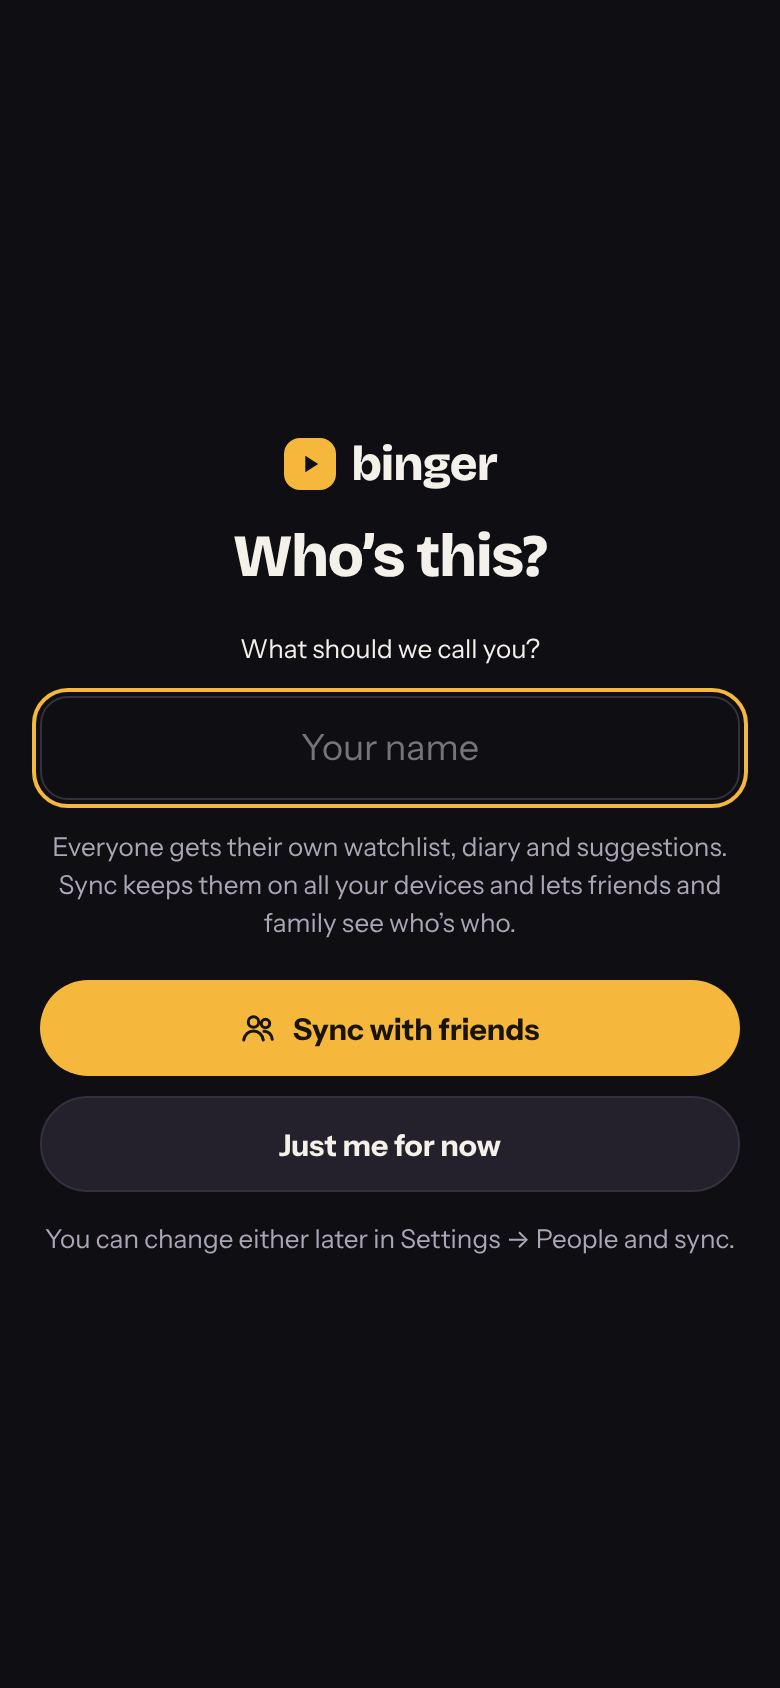
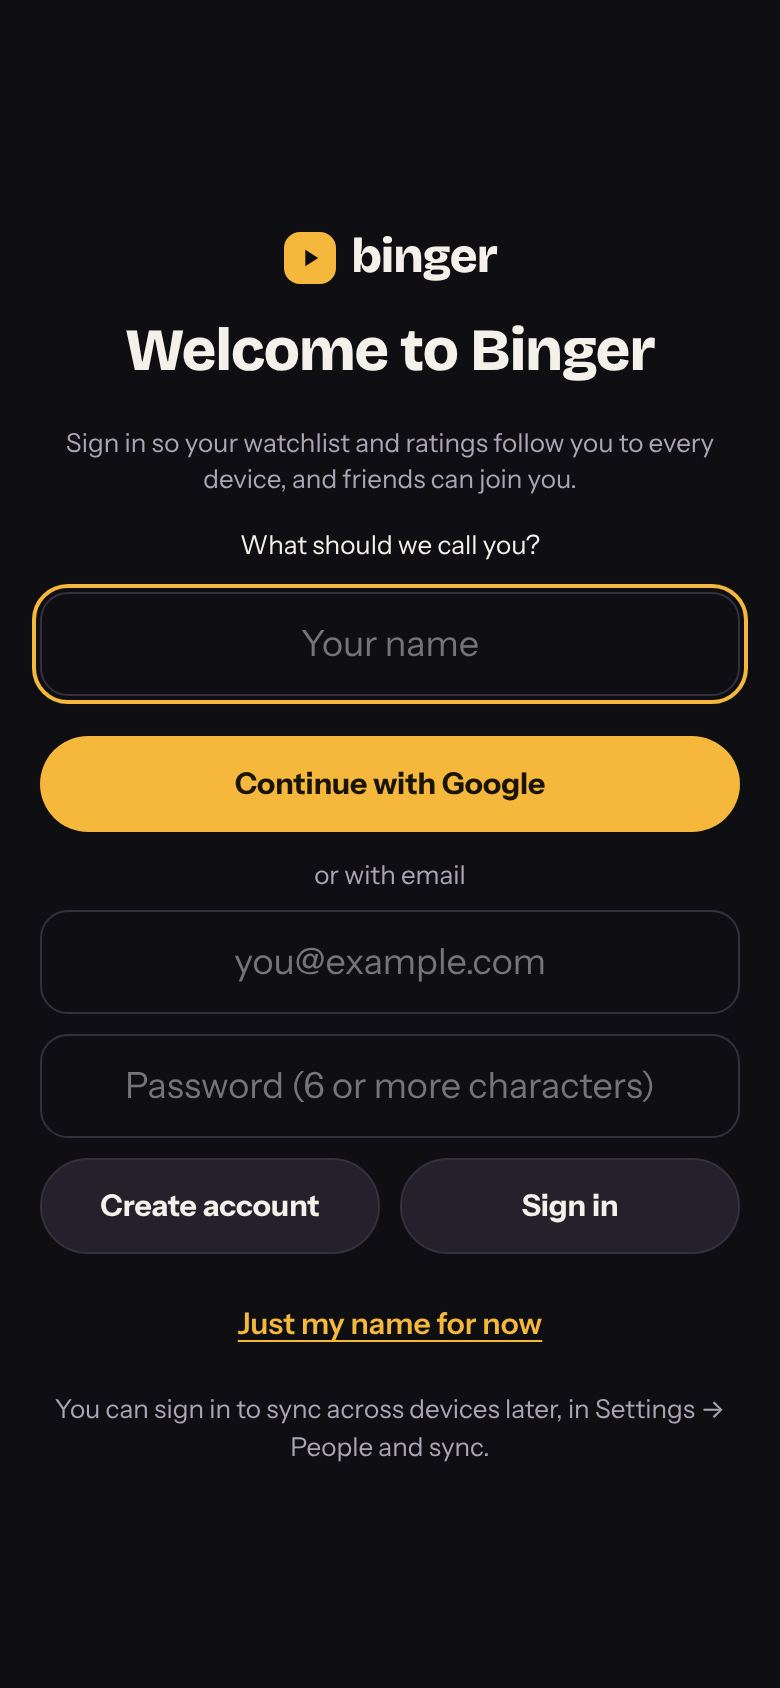
Sign in on the welcome; a legal Watch button
- The first visit opens on sign-in (Google, or email to create an account
  or sign in), so syncing is set up from the start and nobody has to link
  devices later. A new account gets its own household straight away; an
  existing one asks "Which one is you?". The only way past without signing
  in is "Just my name for now" (a name is needed; Escape can't skip it).
  welcomeSignedIn finishes from onUser, so a Google redirect ends the same.
- "Where to watch" opens with one button to a legal stream: the official
  anime link (your service first), or TMDB's page of where a film or show
  is on in your country. Decision 15: legal sources only.
- e2e: the main run takes "Just my name"; the sync run signs Emma up on the
  welcome and signs her laptop in there (36 checks).

Claude-Session: https://claude.ai/code/session_01WaQZs8kxkvLL13CENhv3FL

diff --git a/js/ui/people.js b/js/ui/people.js
@@ -45,35 +45,76 @@ export function openWhoIsWatching(ctx) {
   return sheet;
 }
 
-// First visit: who's this, and do they want to sync with friends? Resolves
-// to { name, choice: 'sync' | 'solo' } (name may be ''), however it closes.
-export function openWelcome({ name = '' } = {}) {
-  return new Promise((resolve) => {
-    let result = null;
-    const sheet = openSheet({ label: 'Welcome to Binger', variant: 'full', className: 'who welcome', onClose: () => resolve(result || { name: input.value.trim(), choice: 'solo' }) });
-    const input = h('input', { id: 'welcome-name', type: 'text', maxlength: '30', autocomplete: 'given-name', value: name, placeholder: 'Your name' });
-    const done = (choice) => {
-      const v = input.value.trim();
-      if (choice === 'sync' && !v) { input.focus(); hint.textContent = 'Add your name first, so your friends can tell whose library is whose.'; return; }
-      result = { name: v, choice };
-      sheet.close();
-    };
-    const hint = h('p', { class: 'small muted', role: 'status' }, 'Everyone gets their own watchlist, diary and suggestions. Sync keeps them on all your devices and lets friends and family see who’s who.');
-    input.addEventListener('keydown', (e) => { if (e.key === 'Enter') done(input.value.trim() ? 'sync' : 'solo'); });
-    append(sheet.body, [
-      h('div', { class: 'who-body welcome-body' },
-        h('div', { class: 'brand' }, h('span', { class: 'brand-mark', 'aria-hidden': 'true' }, icon('play', 14)), h('span', { class: 'brand-word' }, 'binger')),
-        h('h1', { class: 'page-title' }, 'Who’s this?'),
-        h('label', { class: 'small', for: 'welcome-name' }, 'What should we call you?'),
-        input,
-        hint,
+// First visit: sign in straight away, so syncing (and inviting friends) is
+// set up from the start rather than linked later. "Just my name" is the only
+// way past without signing in. ctx.get() returns { hasConfig, busy, error };
+// actions: onGoogle(name), onEmail(name, email, password, create),
+// onNameOnly(name), onClose(). The app closes it once someone is signed in.
+export function openWelcome(ctx) {
+  const sheet = openSheet({ label: 'Welcome to Binger', variant: 'full', className: 'who welcome', dismissible: false, onClose: ctx.onClose });
+  const body = h('div', { class: 'who-body welcome-body' });
+  append(sheet.body, [body]);
+  let need = '';
+
+  const val = (id) => { const el = body.querySelector(`#${id}`); return el ? el.value.trim() : ''; };
+  // A name is needed for a new account and for "Just my name", so friends can
+  // tell whose library is whose. Google and an existing account bring theirs.
+  const requireName = () => {
+    if (val('welcome-name')) return true;
+    need = 'Add your name first, so friends can tell whose library is whose.';
+    render();
+    body.querySelector('#welcome-name').focus();
+    return false;
+  };
+
+  function render() {
+    const st = ctx.get();
+    const typed = new Map([...body.querySelectorAll('input[id]')].map((el) => [el.id, el.value]));
+    const focused = document.activeElement && body.contains(document.activeElement) ? document.activeElement.id : null;
+    clear(body);
+    const name = h('input', { id: 'welcome-name', type: 'text', maxlength: '30', autocomplete: 'given-name', placeholder: 'Your name' });
+    const parts = [
+      h('div', { class: 'brand' }, h('span', { class: 'brand-mark', 'aria-hidden': 'true' }, icon('play', 14)), h('span', { class: 'brand-word' }, 'binger')),
+      h('h1', { class: 'page-title' }, 'Welcome to Binger'),
+      h('p', { class: 'small muted' }, st.hasConfig
+        ? 'Sign in so your watchlist and ratings follow you to every device, and friends can join you.'
+        : 'Everyone gets their own watchlist, diary and suggestions.'),
+      h('label', { class: 'small', for: 'welcome-name' }, 'What should we call you?'),
+      name,
+    ];
+    if (st.hasConfig) {
+      const email = h('input', { id: 'welcome-email', type: 'email', autocomplete: 'username', placeholder: 'you@example.com' });
+      const pw = h('input', { id: 'welcome-password', type: 'password', autocomplete: 'current-password', placeholder: 'Password (6 or more characters)' });
+      parts.push(
         h('div', { class: 'welcome-actions' },
-          h('button', { type: 'button', class: 'btn btn-primary', onClick: () => done('sync') }, icon('people', 18), 'Sync with friends'),
-          h('button', { type: 'button', class: 'btn btn-quiet', onClick: () => done('solo') }, 'Just me for now')),
-        h('p', { class: 'small muted' }, 'You can change either later in Settings → People and sync.')),
-    ]);
-    requestAnimationFrame(() => input.focus());
-  });
+          h('button', { type: 'button', class: 'btn btn-primary', disabled: st.busy, onClick: () => { need = ''; ctx.onGoogle(val('welcome-name')); } }, 'Continue with Google'),
+          h('p', { class: 'small muted welcome-or' }, 'or with email'),
+          h('label', { class: 'sr-only', for: 'welcome-email' }, 'Email'), email,
+          h('label', { class: 'sr-only', for: 'welcome-password' }, 'Password'), pw,
+          h('div', { class: 'row-gap welcome-email-actions' },
+            h('button', { type: 'button', class: 'btn btn-quiet grow', disabled: st.busy, onClick: () => { if (requireName()) { need = ''; ctx.onEmail(val('welcome-name'), val('welcome-email'), body.querySelector('#welcome-password').value, true); } } }, 'Create account'),
+            h('button', { type: 'button', class: 'btn btn-quiet grow', disabled: st.busy, onClick: () => { need = ''; ctx.onEmail(val('welcome-name'), val('welcome-email'), body.querySelector('#welcome-password').value, false); } }, 'Sign in'))),
+        st.busy ? h('p', { class: 'small muted', role: 'status' }, 'Signing in…') : null,
+        st.error ? h('p', { class: 'small error', role: 'alert' }, st.error) : null,
+        need ? h('p', { class: 'small error', role: 'alert' }, need) : null,
+        h('button', { type: 'button', class: 'link-btn welcome-skip', disabled: st.busy, onClick: () => { if (requireName()) ctx.onNameOnly(val('welcome-name')); } }, 'Just my name for now'),
+        h('p', { class: 'small muted' }, 'You can sign in to sync across devices later, in Settings → People and sync.'));
+    } else {
+      parts.push(
+        need ? h('p', { class: 'small error', role: 'alert' }, need) : null,
+        h('div', { class: 'welcome-actions' }, h('button', { type: 'button', class: 'btn btn-primary', onClick: () => { if (requireName()) ctx.onNameOnly(val('welcome-name')); } }, 'Continue')));
+    }
+    append(body, parts);
+    for (const [id, value] of typed) { const el = body.querySelector(`#${id}`); if (el && value) el.value = value; }
+    // Typing survives a re-render (sign-in state changing), and so does focus.
+    const again = focused && body.querySelector(`#${focused}`);
+    if (again) again.focus();
+  }
+
+  render();
+  // After the sheet's own focus (openSheet focuses the panel on the next frame).
+  requestAnimationFrame(() => { const n = body.querySelector('#welcome-name'); if (n) n.focus(); });
+  return { sheet, refresh: () => { if (sheet.el.isConnected) render(); }, close: () => sheet.close() };
 }
 
 // A small sheet asking for a name. Resolves to the name, or null.

diff --git a/js/app.js b/js/app.js
@@ -51,6 +51,8 @@ const store = createStore({ key: currentProfile(device.profiles).key, onSaveErro
 // Sync across devices (Firebase), once set up and signed in.
 const sync = { fb: null, loading: null, user: null, ctl: null, status: '', error: '', busy: false, pendingCode: null };
 let peopleSheet = null;
+// The first-visit welcome (sign in, or just a name) while it's open.
+let welcome = null;
 let cache = createMemoryCache();
 let tmdb = null;
 let anilist = null;
@@ -451,6 +453,7 @@ function firebaseConfig() {
 
 function refreshPeople() {
   if (peopleSheet) peopleSheet.refresh();
+  if (welcome) welcome.refresh();
 }
 function syncStatus(text) { sync.status = text; sync.error = ''; refreshPeople(); }
 function syncError(text) { sync.error = text; refreshPeople(); }
@@ -488,6 +491,8 @@ async function onUser(user) {
   }
   if (device.household) await beginSync();
   refreshPeople();
+  // Signed in from the welcome (straight away, or back from a Google redirect).
+  if (welcome) await welcomeSignedIn();
 }
 
 async function beginSync() {
@@ -940,22 +945,77 @@ function afterWho() {
   if (!store.get().onboarded) startOnboarding();
 }
 
-// "Who's this?" once per device, before anything else: a name (so friends
-// can tell whose library is whose) and the way into syncing with them.
+// The welcome, once per device, before anything else: sign in straight away
+// (so syncing and inviting friends are set up from the start, not linked
+// later), or "Just my name" to go on without.
 function needsWelcome() {
   return !device.welcomed && !device.household && !currentProfile(device.profiles).name;
 }
 
-async function showWelcome() {
+function setMyName(name) {
   const me = currentProfile(device.profiles);
-  const { name, choice } = await openWelcome({ name: me.name });
+  if (name && name !== me.name) setProfiles(renameProfile(device.profiles, me.id, name));
+}
+
+function showWelcome() {
+  if (firebaseConfig()) ensureFirebase();
+  welcome = openWelcome({
+    get: () => ({
+      hasConfig: !!firebaseConfig(),
+      busy: sync.busy || (!!firebaseConfig() && !sync.fb && !!sync.loading),
+      error: sync.error,
+    }),
+    onGoogle: (name) => welcomeSignIn(name, (fb) => fb.signInGoogle()),
+    onEmail: (name, email, password, create) => welcomeSignIn(name, (fb) => {
+      if (!email || !password) throw Object.assign(new Error(), { code: 'auth/invalid-email' });
+      return create ? fb.createAccount(email, password) : fb.signInEmail(email, password);
+    }),
+    onNameOnly: (name) => finishWelcome({ name }),
+    // Closed some other way (the phone's back gesture): carry on without
+    // marking it done, so it asks again next time.
+    onClose: () => { if (welcome) { welcome = null; if (!store.get().onboarded) startOnboarding(); } },
+  });
+}
+
+// The name goes on this device's person first, so a new household (or
+// "Someone new" in a household) already knows it.
+async function welcomeSignIn(name, signIn) {
+  setMyName(name);
+  await syncAction(async () => { const fb = await ensureFirebase(); if (fb) await signIn(fb); });
+  // onUser carries on from here once Firebase says who's signed in.
+}
+
+// Signed in: an account with a household joins it (onUser has already asked
+// "Which one is you?"); a new account gets its own household, so inviting a
+// friend is one link from now on.
+async function welcomeSignedIn() {
+  if (!welcome || welcome.finishing || !sync.user) return;
+  welcome.finishing = true;
+  try {
+    if (!device.household) {
+      if (!currentProfile(device.profiles).name && sync.user.name) setMyName(sync.user.name.split(' ')[0]);
+      device.household = await createHousehold(sync.fb, sync.user.uid, device.profiles);
+      saveDevice(device);
+      await beginSync();
+    }
+  } catch (err) {
+    welcome.finishing = false;
+    syncError(authMessage(err));
+    return;
+  }
+  finishWelcome({ signedIn: true });
+}
+
+function finishWelcome({ name = '', signedIn = false } = {}) {
+  if (name) setMyName(name);
   device.welcomed = true;
   saveDevice(device);
-  if (name) setProfiles(renameProfile(device.profiles, me.id, name));
+  const w = welcome;
+  welcome = null;
+  if (w) w.close();
+  // Sync may have brought this person's library from another device.
   if (!store.get().onboarded) startOnboarding();
-  // People and sync opens on top of the first run: if they join a household
-  // that already has their library, the first run closes by itself.
-  if (choice === 'sync') showPeople();
+  if (signedIn) toast(`Signed in as ${displayName(currentProfile(device.profiles))}. Invite friends from Settings → People and sync.`, { ms: 4000 });
 }
 
 async function init() {

diff --git a/js/ui/detail.js b/js/ui/detail.js
@@ -118,11 +118,28 @@ function body(t, ctx, sheet) {
       t.url ? h('a', { href: t.url, target: '_blank', rel: 'noopener' }, t.source === 'anilist' ? 'AniList page' : 'TMDB page', icon('external', 14)) : null));
 }
 
+// One tap to watch it, legally. Anime: the official stream itself, one of
+// your services first. Films and TV: TMDB's page of where it's on in your
+// country (JustWatch's links to each service), since TMDB gives no direct
+// link per service.
+function watchButton(t, ctx) {
+  const mine = ctx.settings.services || [];
+  if (t.source === 'anilist') {
+    const links = t.watchLinks || [];
+    const best = links.find((l) => mine.includes(l.name)) || links[0];
+    return best ? h('a', { class: 'btn btn-primary watch-btn', href: best.url, target: '_blank', rel: 'noopener' }, icon('play', 16), `Watch on ${best.name}`) : null;
+  }
+  const p = t.providers;
+  const any = p && [p.stream, p.free, p.rent, p.buy].some((list) => list && list.length);
+  return any && p.link ? h('a', { class: 'btn btn-primary watch-btn', href: p.link, target: '_blank', rel: 'noopener' }, icon('play', 16), 'Where to watch it') : null;
+}
+
 function whereToWatch(t, ctx) {
   const mine = ctx.settings.services || [];
   if (t.source === 'anilist') {
     const links = t.watchLinks || [];
     return h('section', { class: 'where' }, h('h2', { class: 'eyebrow' }, 'Where to watch'),
+      watchButton(t, ctx),
       links.length
         ? h('ul', { class: 'providers' }, links.map((l) => h('li', null,
           h('a', { class: `provider provider-link${mine.includes(l.name) ? ' provider-yours' : ''}`, href: l.url, target: '_blank', rel: 'noopener' },
@@ -136,6 +153,7 @@ function whereToWatch(t, ctx) {
   const rows = p ? [['Stream', p.stream], ['Free', p.free], ['Rent', p.rent], ['Buy', p.buy]].filter(([, list]) => list && list.length) : [];
   return h('section', { class: 'where' },
     h('h2', { class: 'eyebrow' }, `Where to watch · ${region}`),
+    watchButton(t, ctx),
     rows.length
       ? h('div', { class: 'provider-rows' }, rows.map(([label, list]) => h('div', { class: 'provider-row' },
         h('span', { class: 'provider-label' }, label),

diff --git a/css/app.css b/css/app.css
@@ -473,6 +473,13 @@ button.cast-item:hover .cast-name { text-decoration: underline; }
 .welcome-body input { width: 100%; max-width: 360px; text-align: center; font-size: 18px; }
 .welcome-body .small { max-width: 360px; }
 .welcome-actions { display: flex; flex-direction: column; gap: 10px; width: 100%; max-width: 360px; margin-top: 6px; }
+.welcome-actions input { max-width: none; }
+.welcome-or { margin: 2px 0 -2px; }
+.welcome-email-actions { width: 100%; }
+.welcome-skip { margin-top: 2px; font-weight: 600; }
+/* "Watch on Crunchyroll" / "Where to watch it": one tap to a legal stream. */
+.watch-btn { align-self: flex-start; text-decoration: none; }
+.watch-btn:hover { color: var(--on-accent); }
 .people-body { display: flex; flex-direction: column; gap: 22px; padding-top: 8px; }
 .person-row { gap: 10px; }
 .sync-status { display: flex; align-items: center; gap: 6px; color: var(--accent); font-weight: 600; }

diff --git a/js/version.js b/js/version.js
@@ -1,4 +1,4 @@
 // The one place the app version lives. Shown in Settings → About.
 // Bump with `npm run bump` (sets both from the real UTC clock).
-self.BINGER_VERSION = '2026.10.31-7';
-self.BINGER_BUILD_TIME = '2026-10-31T08:55:52Z';
+self.BINGER_VERSION = '2026.10.31-8';
+self.BINGER_BUILD_TIME = '2026-10-31T09:06:50Z';

diff --git a/docs/PLAN.md b/docs/PLAN.md
@@ -179,6 +179,11 @@ Everything technical you need is in this file,
     entry and already arrives in the deck ("Next part of…"); a TV show keeps one
     TMDB id across seasons, so it can't. A season is "new" if it premieres after
     the latest date in your diary for that show; logging it clears the alert.
+15. **"Where to watch" links only to legal sources** (TMDB / JustWatch for
+    films and TV, AniList's official links for anime). The owner asked for
+    buttons and a Settings link to piracy streaming sites (r/Piracy's
+    megathread) on 2026-10-31; declined, and the legal Watch button built
+    instead. Don't add piracy sites or lists of them.
 
 ---
 
@@ -352,6 +357,19 @@ Details, order and owner decisions: [UPGRADE-PLAN.md](UPGRADE-PLAN.md).
 ## Status log
 
 Newest first. One entry per working session: what changed, what's next, what's blocking.
+
+### 2026-10-31 (third session, end): sign in on the welcome, Watch button
+- The owner asked for sign-in on the first visit (so nobody links devices
+  later), with "just a name" as the only way past. The welcome now signs you
+  in (Google or email) and makes a household for a new account straight away;
+  an existing account gets "Which one is you?". `welcomeSignedIn` in `app.js`
+  finishes it from `onUser`, so a Google redirect lands in the same place.
+- The owner also asked for buttons to, and a Settings link to, piracy
+  streaming sites. Declined (decision 15); built a legal **Watch** button in
+  "Where to watch" instead.
+- e2e: the main run takes "Just my name" (Escape can't skip; a name is
+  needed); the sync run signs Emma up on the welcome, signs her laptop in
+  there ("Which one is you?" → Emma → welcome closes), 36 checks.
 
 ### 2026-10-31 (third session, after merge): deploy fix
 - The owner switched Pages to GitHub Actions and ran "Deploy site": it failed

diff --git a/docs/DESIGN.md b/docs/DESIGN.md
@@ -82,11 +82,18 @@ favourites plus any that faded), all on **one shared scale** so rows compare.
   lilac, orange), the current one ringed. The **who chip** (initial + name;
   initial only under 420 px) sits at the right of every screen's header.
   **People and sync** is a full sheet in the Settings style.
-- **Welcome** (built, `openWelcome` in `js/ui/people.js`): on a device's first
-  visit, before "What have you loved?", the "Who's watching?" style screen asks
-  "Who's this?": a name field, **Sync with friends** (amber; needs a name, then
-  opens sign-in over the first run) and **Just me for now** (quiet). Skipped
-  for invite links and devices already in a household. Screenshot `20-welcome`.
+- **Welcome** (built, `openWelcome` in `js/ui/people.js`): a device's first
+  visit opens on sign-in, so syncing is set up from the start rather than
+  linked later. "Welcome to Binger": your name, **Continue with Google**
+  (amber), or email with **Create account** / **Sign in**; the only way past
+  without signing in is **Just my name for now** (amber link; needs a name).
+  Escape doesn't skip it. A new account gets its own household at once; an
+  existing one asks "Which one is you?". Skipped for invite links and devices
+  already in a household. Screenshot `20-welcome`.
+- **Watch button** (built): "Where to watch" opens with one amber button:
+  "Watch on Crunchyroll" (anime: the official stream, your service first) or
+  "Where to watch it" (films and TV: TMDB's page of legal options in your
+  country). Only legal sources: decision 15 in PLAN.md.
 - **"Wider" picks** (built): a card reached by the deck's wider pull says how,
   in the sky "explore" style: "Acclaimed: among TMDB's best rated", "A hidden
   gem: loved by the people who found it", "A Korean series, from further afield".

diff --git a/docs/FIREBASE.md b/docs/FIREBASE.md
@@ -76,9 +76,11 @@ anything shaped like a TMDB key or token is committed anywhere.
 
 ## 3. Use it
 
-1. Emma: Settings → People and sync → Sign in → **Start a household**.
-   Binger asks your name if it doesn't know it yet.
-2. **Share invite link** and send it to Dave.
+1. Emma opens Binger for the first time: the welcome asks her name and signs
+   her in (Google, or email → **Create account**). A household is made for her
+   straight away. (Someone who chose "Just my name" can sign in later:
+   Settings → People and sync → Sign in → **Start a household**.)
+2. Settings → People and sync → **Share invite link**, and send it to Dave.
 3. Dave opens the link on his phone → signs in (his own Google account or
    email) → **Join household** → "Which one is you?" → picks **Dave** (or
    "Someone new" if Emma hasn't added him on her device).
